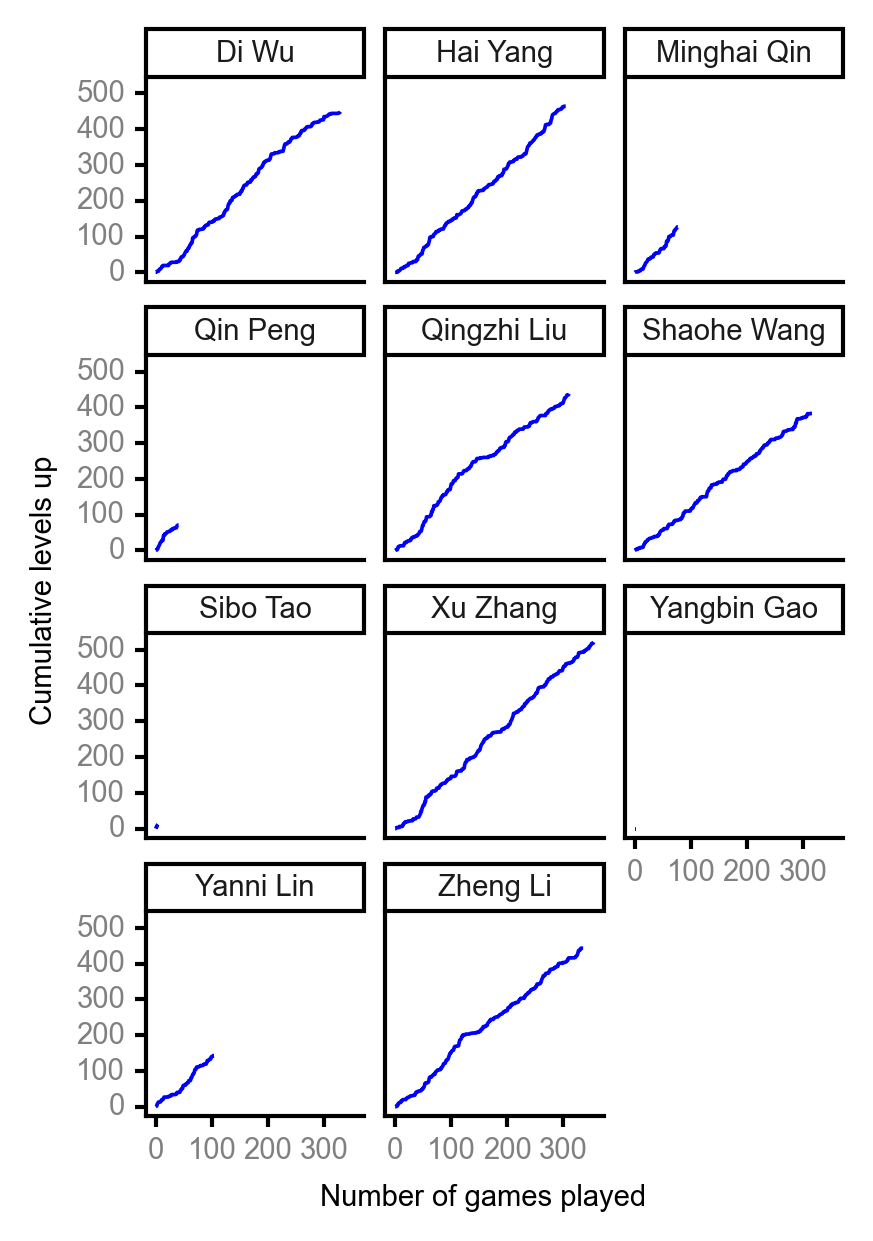
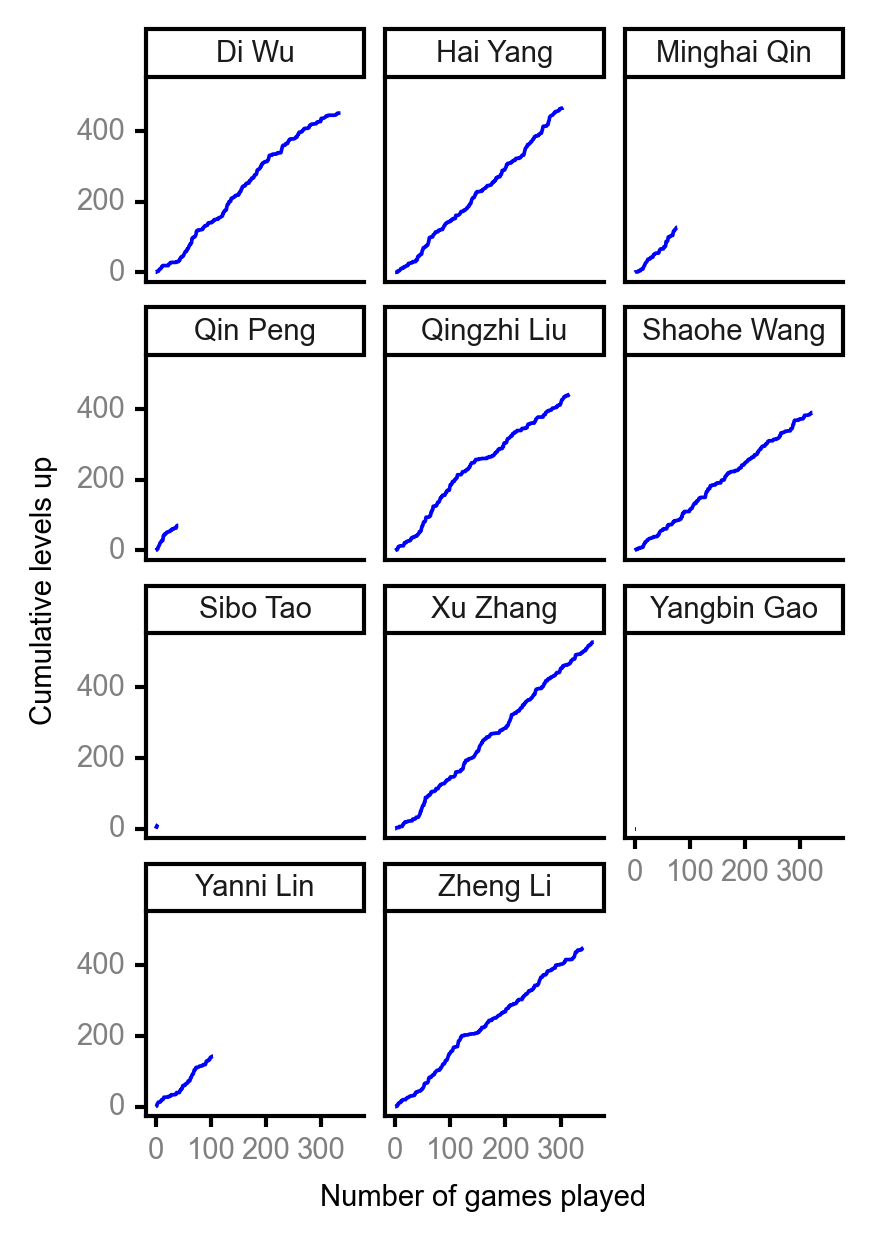
update player stats

diff --git a/player_stats.md b/player_stats.md
@@ -3,23 +3,23 @@ layout: player_stats
 title: Player Statistics
 author: Shaohe Wang
 author_url: https://scholar.google.com/citations?user=R_-kJV4AAAAJ&hl=en
-date: 2021-08-28
+date: 2021-09-18
 ---
 
 #### [Spreadsheet](https://docs.google.com/spreadsheets/d/1So3PBr9gV3I0LzApZOgJlQew2QjM1wAiWhR50rAnHRg/edit#gid=2137801449)
-#### [Play Room](https://playingcards.io/uersg5)
+#### [Play Room](https://playingcards.io/a3775q)
 #### [Zoom](https://ucsf.zoom.us/j/91360570376?pwd=SmN6aFNPY3UzdEp3M0tmQ1ViUkdQUT09)
 
 <div class="table-wrapper" markdown="block">
 
 | <br><br><br>Rank | <br><br><br>Player | <br> Lifetime <br> levels <br> up | <br><br> Winning <br> rate | <br> Average <br> levels <br> up | <br> Total <br> games <br> played | Games <br> played <br> as <br> MVP | Games <br> played <br> as <br> dealer | N_games <br> short <br> staffed <br> as dealer | Winning <br> rate <br> as <br> dealer |
 |:---:|:---:|:---:|:---:|:---:|:---:|:---:|:---:|:---:|:---:|
-| 1 | Xu <br> Zhang | 521 | 55.2% | 2.66 | 355 | 20 | 68 | 2 | 52.9% |
-| 2 | Hai <br> Yang | 465 | 53.4% | 2.85 | 305 | 26 | 59 | 2 | 57.6% |
-| 3 | Di <br> Wu | 450 | 48.2% | 2.82 | 330 | 35 | 55 | 0 | 50.9% |
-| 4 | Zheng <br> Li | 443 | 52.1% | 2.52 | 336 | 15 | 54 | 1 | 55.6% |
-| 5 | Qingzhi <br> Liu | 438 | 51.1% | 2.74 | 311 | 16 | 55 | 4 | 45.5% |
-| 6 | Shaohe <br> Wang | 384 | 44.2% | 2.74 | 317 | 15 | 51 | 3 | 41.2% |
+| 1 | Xu <br> Zhang | 534 | 55.4% | 2.67 | 361 | 20 | 70 | 2 | 52.9% |
+| 2 | Hai <br> Yang | 465 | 53.3% | 2.85 | 306 | 26 | 59 | 2 | 57.6% |
+| 3 | Zheng <br> Li | 450 | 52.0% | 2.52 | 342 | 15 | 56 | 1 | 53.6% |
+| 4 | Di <br> Wu | 450 | 47.6% | 2.80 | 336 | 35 | 55 | 0 | 50.9% |
+| 5 | Qingzhi <br> Liu | 449 | 51.4% | 2.74 | 317 | 16 | 56 | 4 | 46.4% |
+| 6 | Shaohe <br> Wang | 397 | 44.3% | 2.78 | 323 | 15 | 52 | 3 | 42.3% |
 | 7 | Yanni <br> Lin | 144 | 47.6% | 2.88 | 105 | 10 | 11 | 2 | 36.4% |
 | 8 | Minghai <br> Qin | 127 | 52.6% | 3.10 | 78 | 1 | 11 | 1 | 72.7% |
 | 9 | Qin <br> Peng | 72 | 59.5% | 2.88 | 42 | 4 | 4 | 0 | 75.0% |
